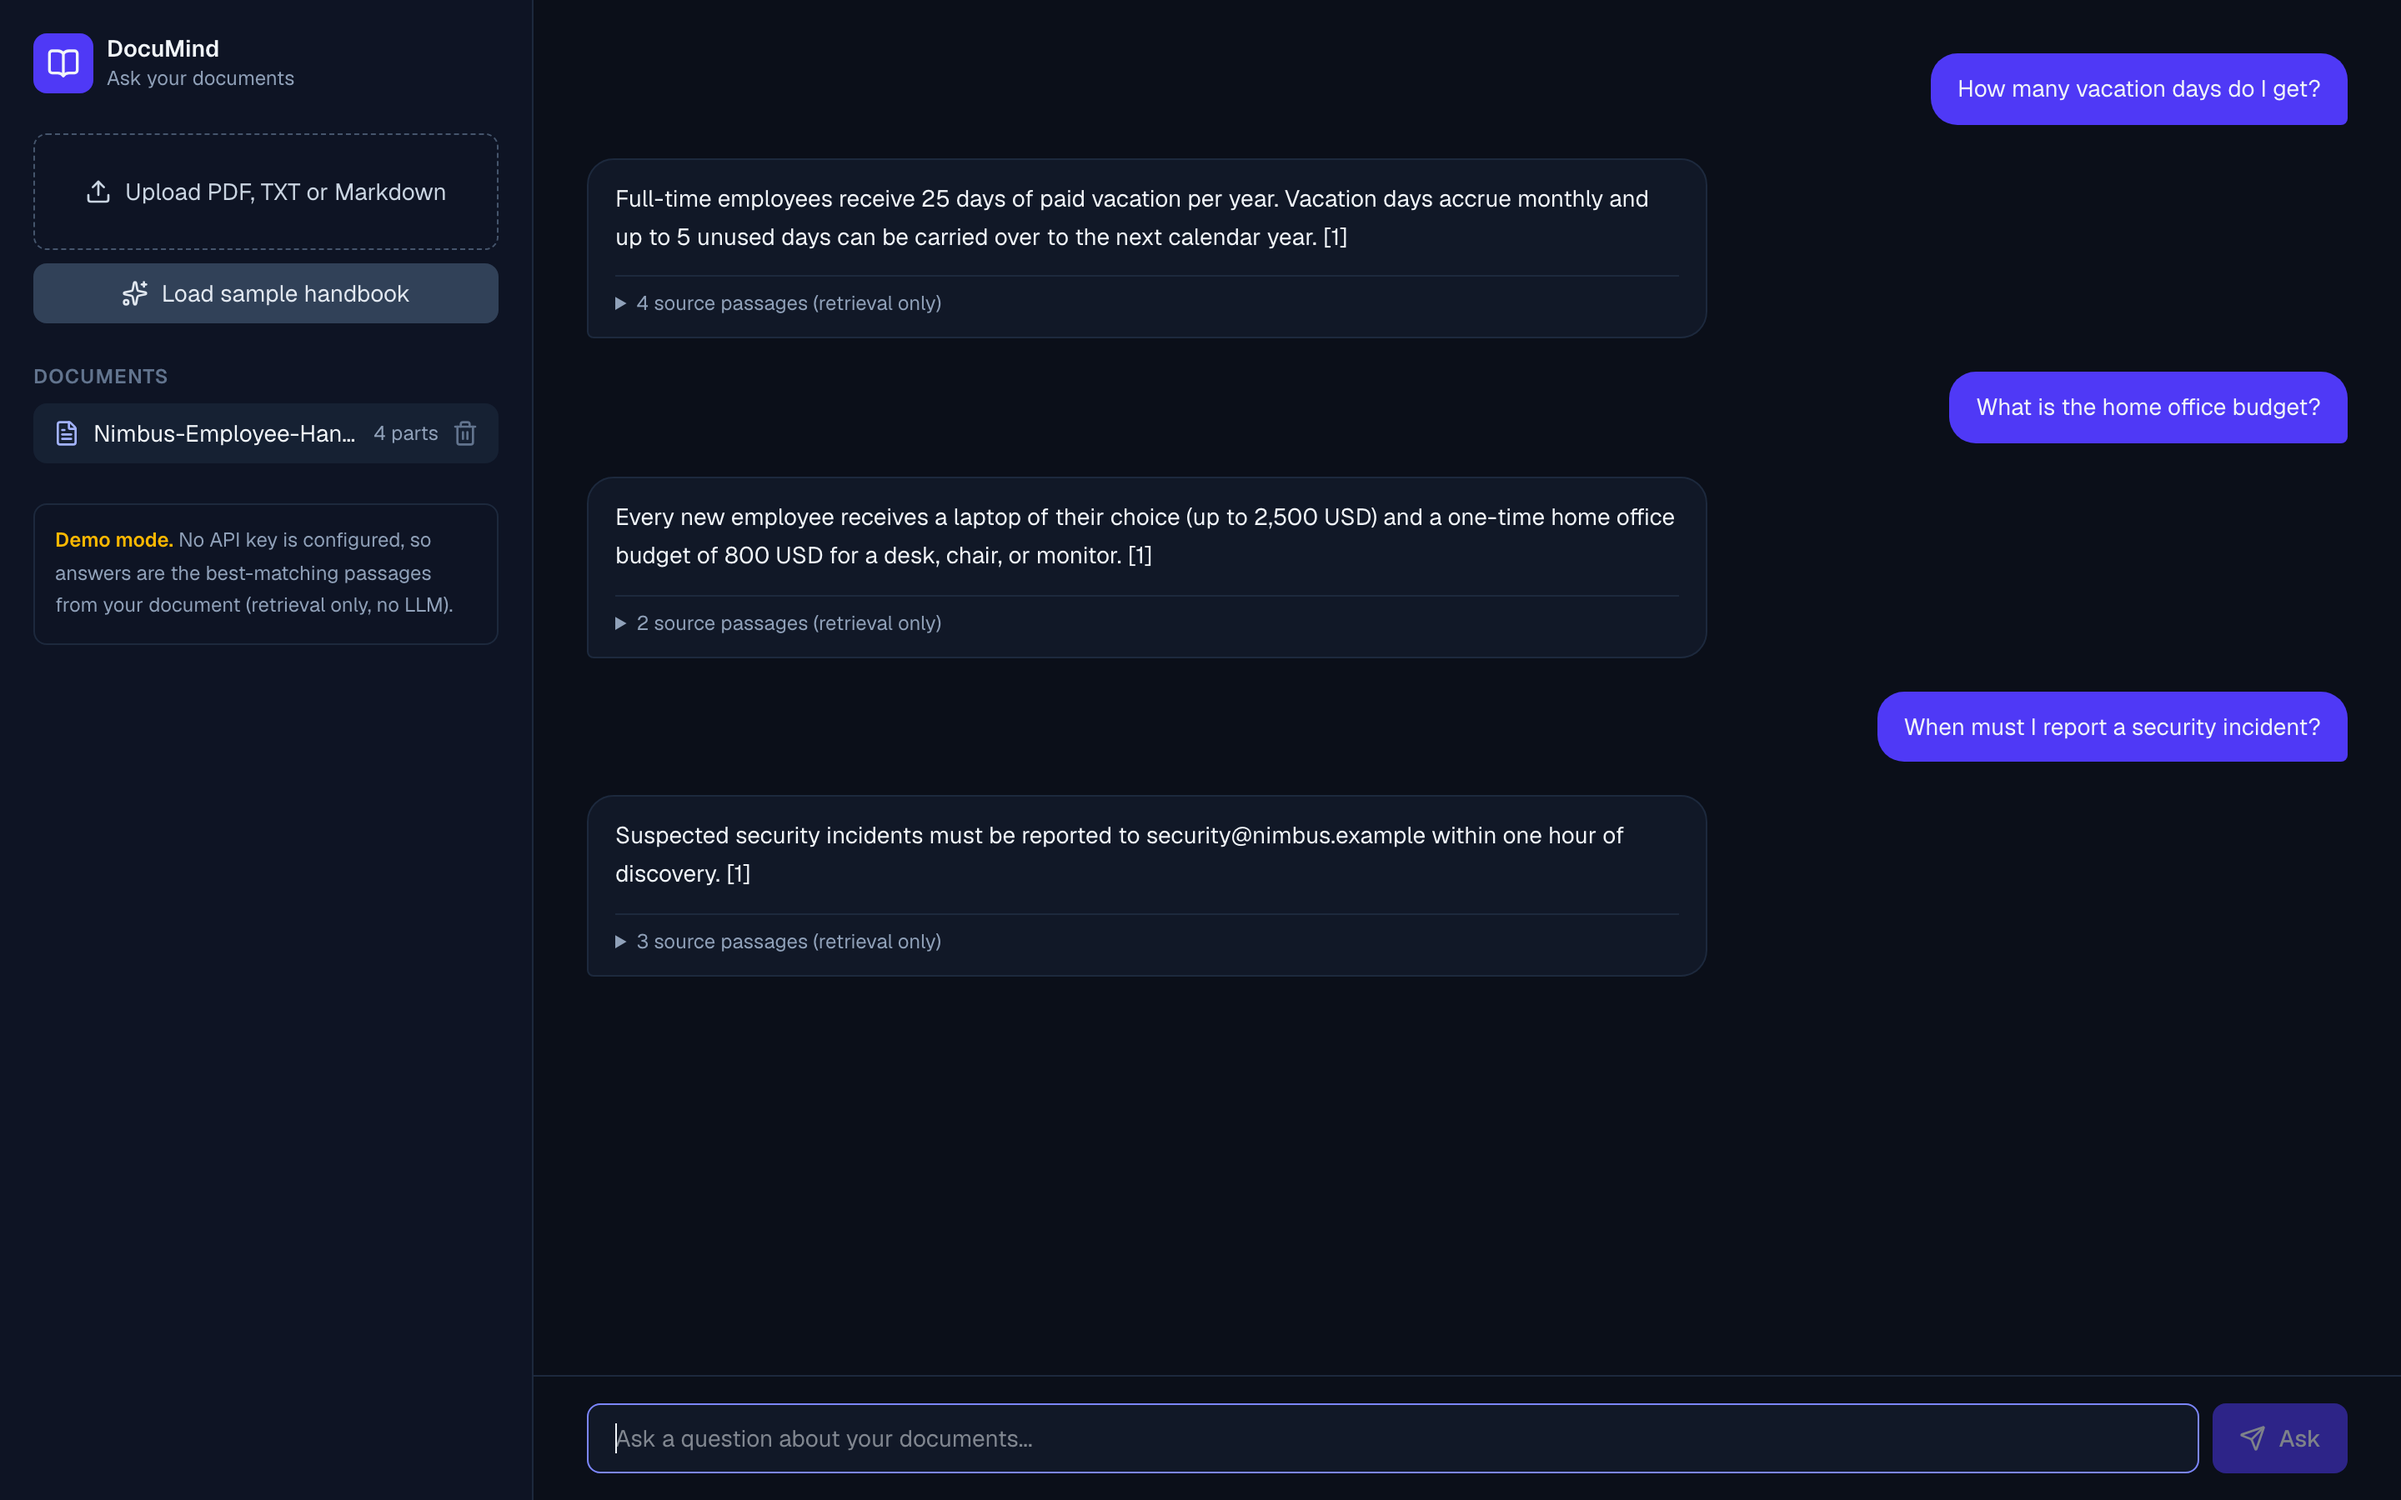
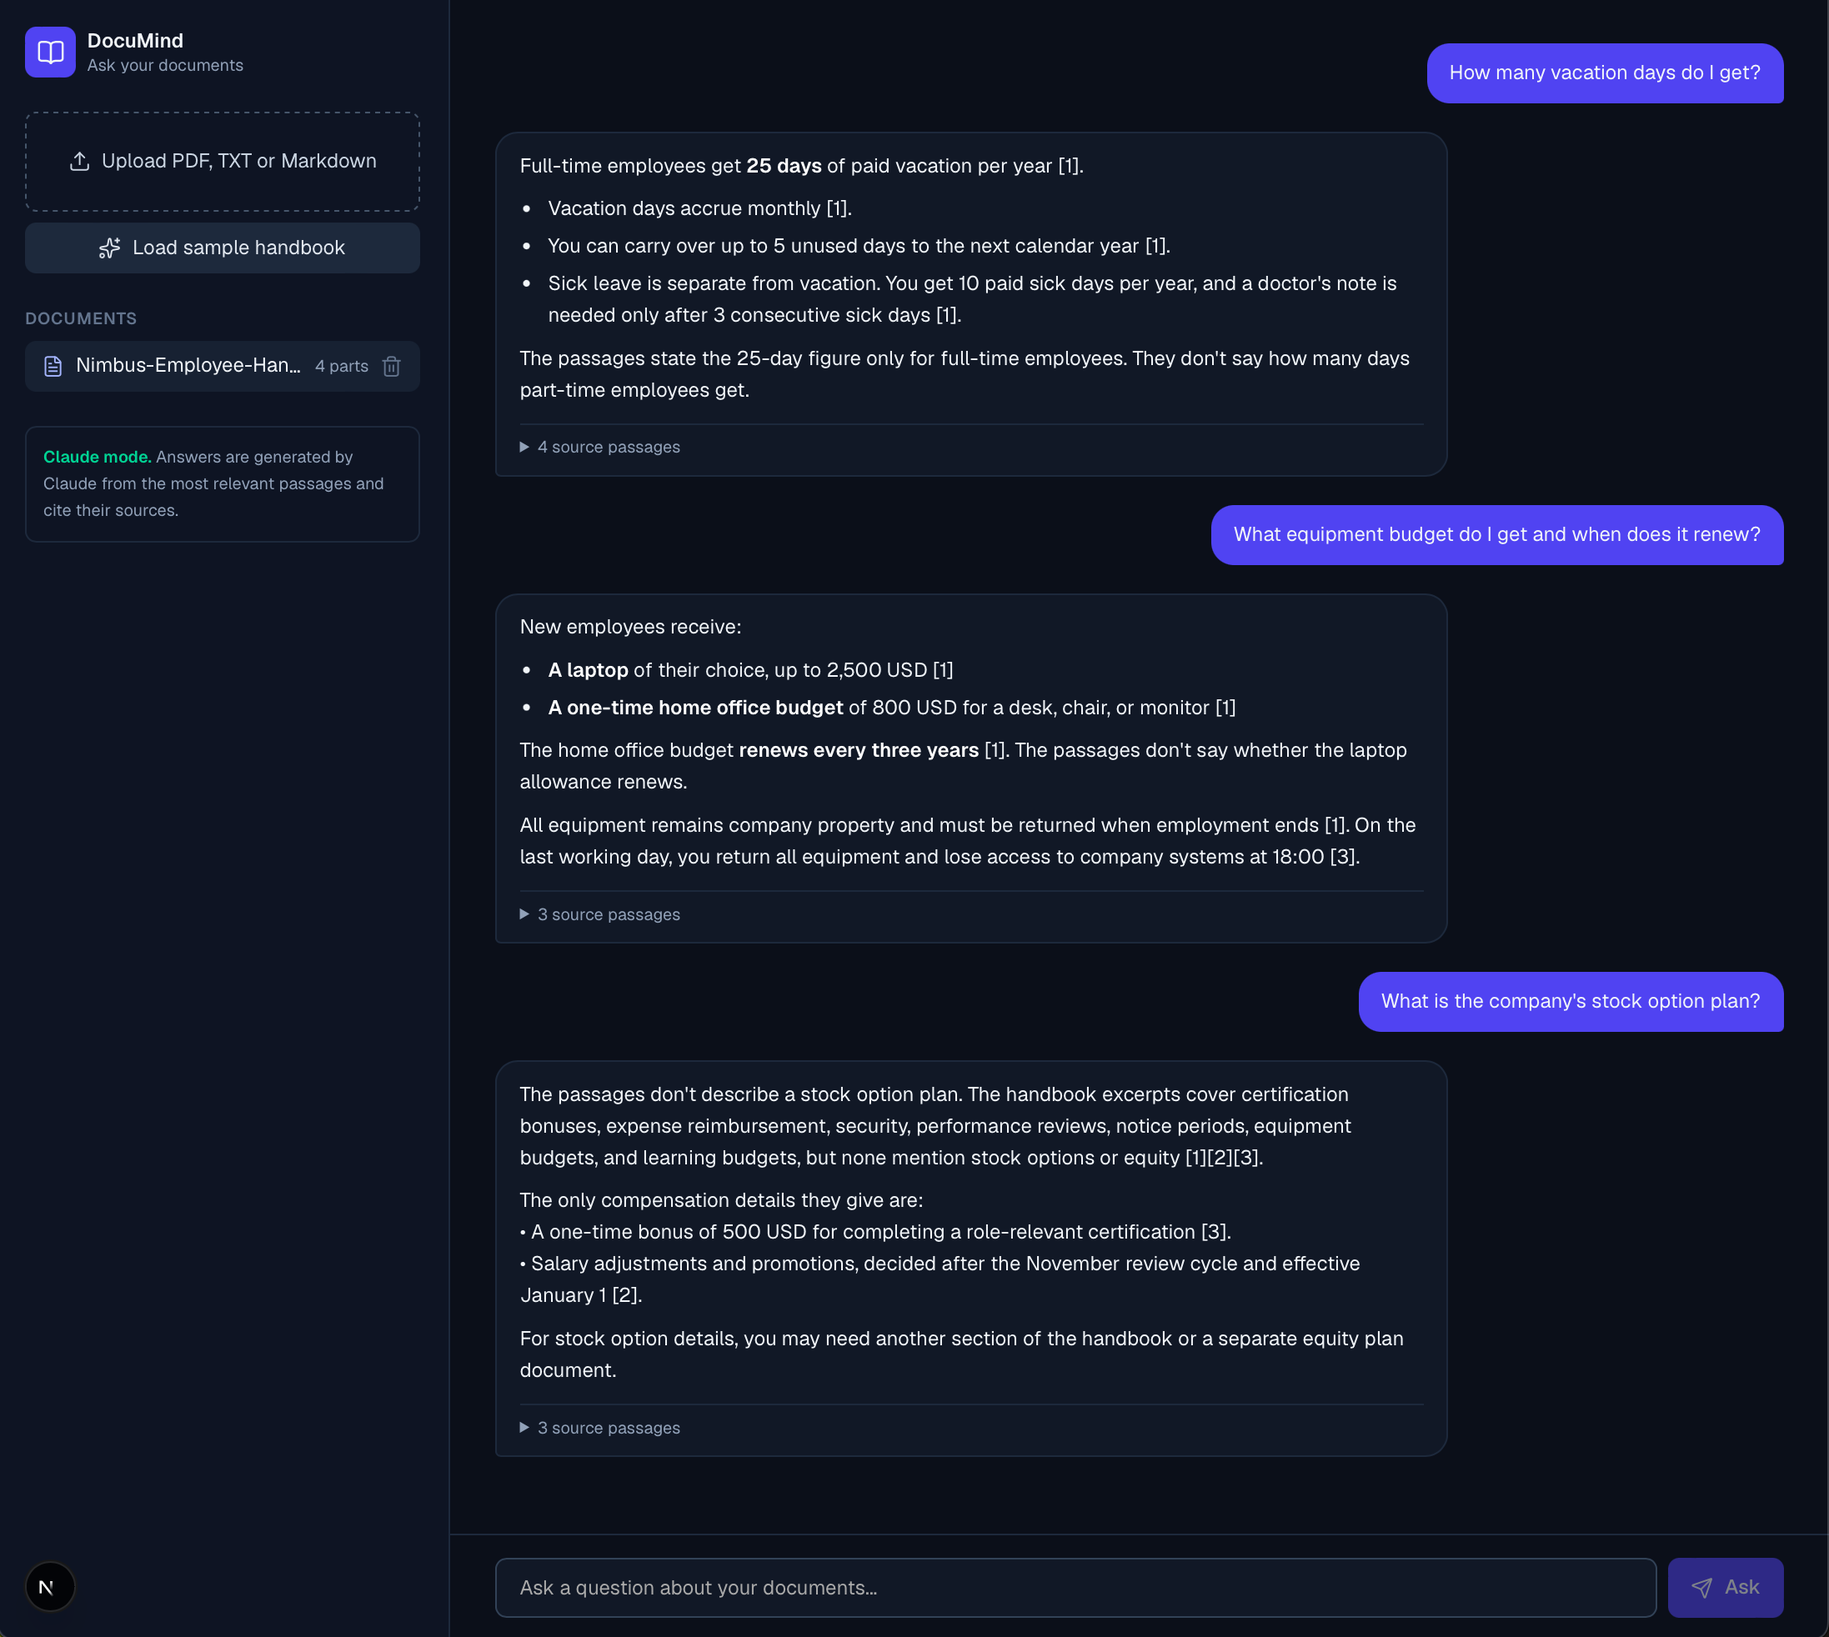
docs: update screenshot with Claude-mode answers

diff --git a/next.config.ts b/next.config.ts
@@ -1,6 +1,7 @@
 import type { NextConfig } from "next";
 
 const nextConfig: NextConfig = {
+  devIndicators: false,
   /* config options here */
   cacheComponents: true,
   partialPrefetching: true,

diff --git a/README.md b/README.md
@@ -4,7 +4,7 @@ Ask questions about your documents and get cited answers. Built with **Next.js (
 
 **Live demo:** [ai-rag-document-assistant-tau.vercel.app](https://ai-rag-document-assistant-tau.vercel.app)
 
-![DocuMind answering questions about a sample employee handbook](docs/screenshot.png)
+![DocuMind answering questions with Claude, citing sources, and admitting when the answer is not in the document](docs/screenshot.png)
 
 > **Demo note:** the app runs without any API key in **demo mode**: it retrieves the most relevant passages from your document and shows the best-matching sentence (retrieval only, no LLM). Add an `ANTHROPIC_API_KEY` and the same retrieval feeds Claude, which writes a grounded answer with citations.
 
